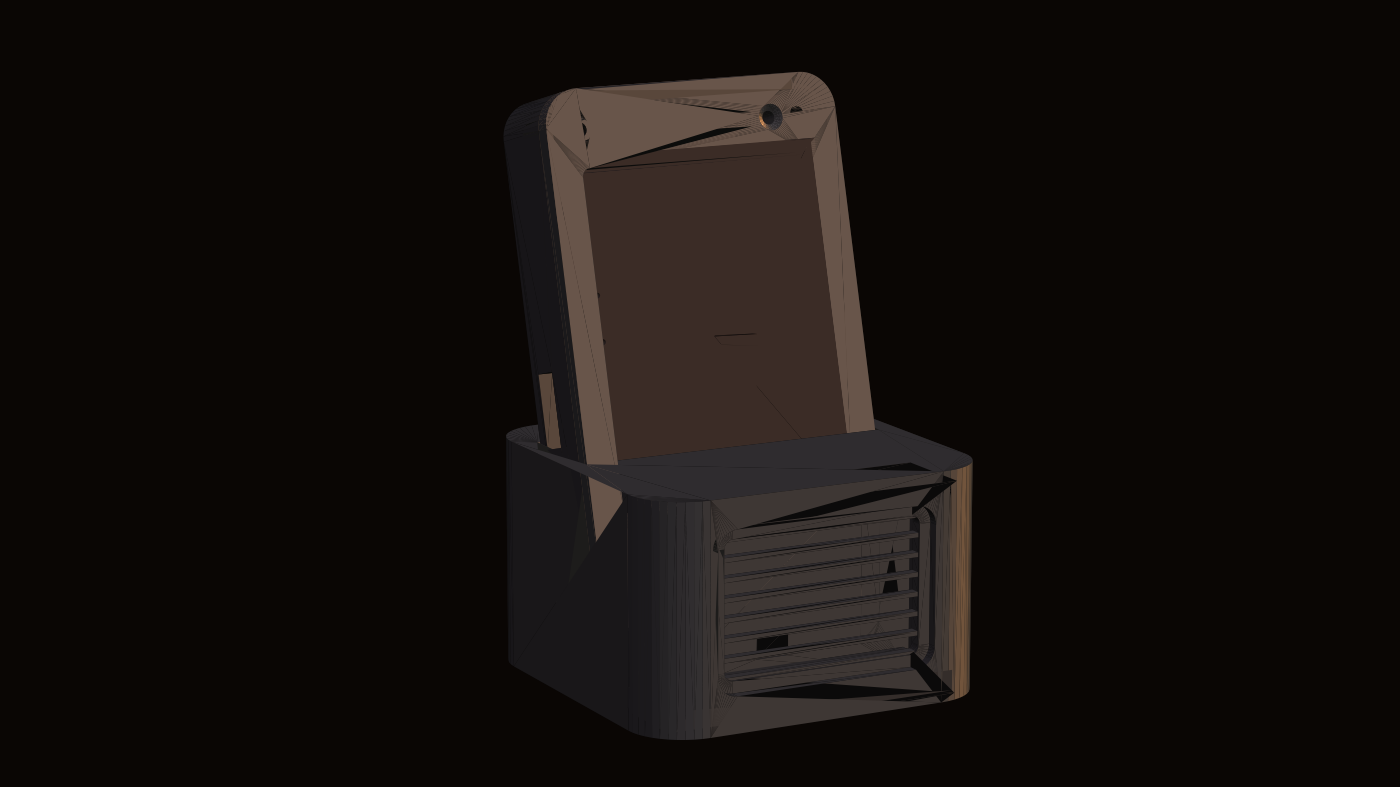
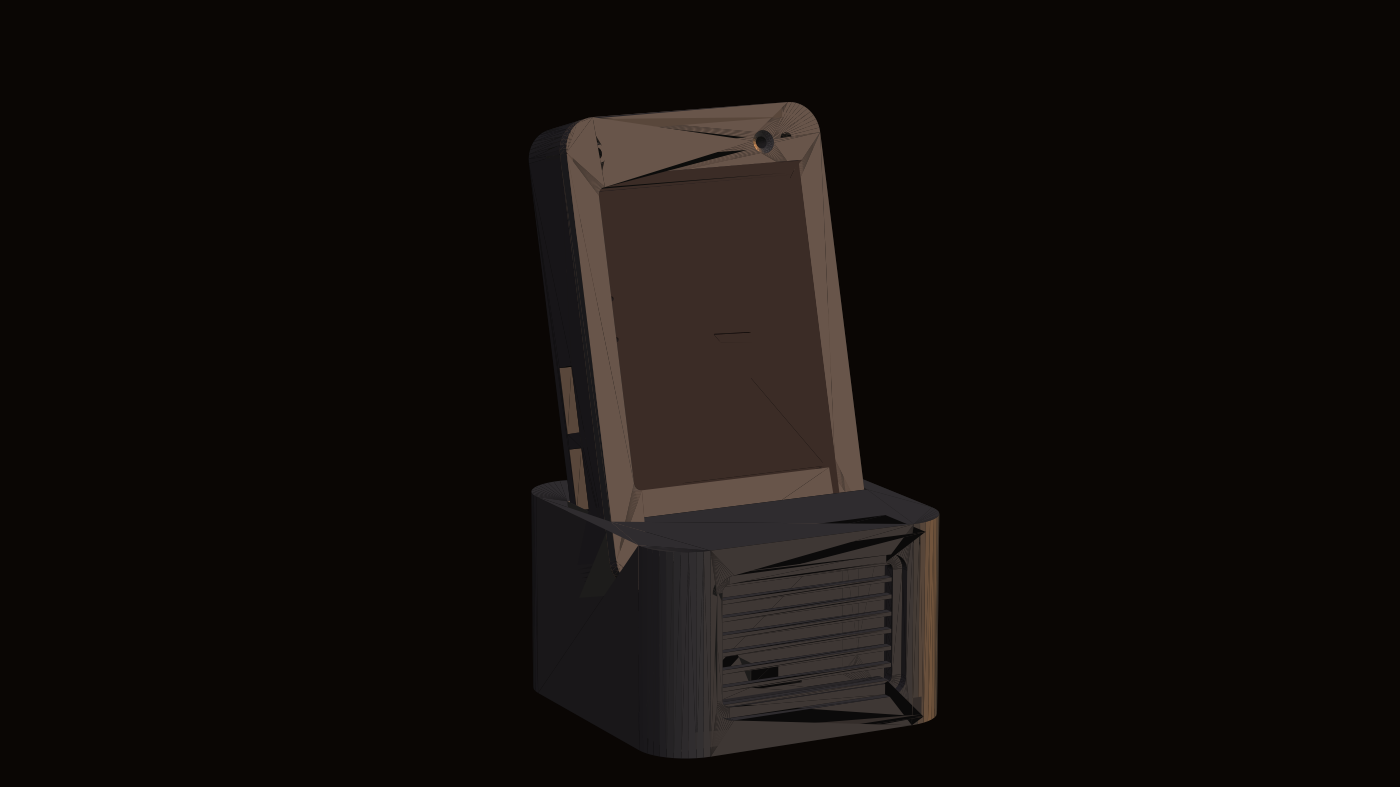
fix(enclosure): the stand was covering the bottom fifth of the screen
JP spotted it in a render. Two faults, one cause: the slab sat too deep.

THE SCREEN. The slot floor was z=10.0, putting the stand 30mm up the slab
— 31.1mm ALONG it once the 15 degree tilt is accounted for
(30 / cos 15). The visible area starts only 19.76mm up from the slab's
bottom edge (VA y0 = 16.81, slab bottom OY0 = -2.95), so the stand
covered 11.3mm of screen: 19.5% of a 58.05mm display, hidden behind the
box.

Worth naming the class: NOTHING INTERSECTED. The boolean clearance check
against the vendor STEP passed at 0.000mm3 through every revision,
correctly, because the stand was not colliding with the screen — it was
merely in front of it. A test that measures interference is structurally
blind to occlusion. This was found by rendering the thing and looking at
it, which is now four for four on defects that were invisible in the
source and obvious in the output.

THE USB-C PLUG. The same depth left 6.0mm between the slab's bottom edge
and the stand floor. A straight USB-C plug body needs ~18-20mm. There was
nowhere for the power lead to go, and nobody had noticed because no
figure showed a cable — the assembly was only ever drawn unpowered.

SLOT_FLOOR 10.0 -> 24.0:
  engagement    16.6mm along the slab (captive slot, constrains both faces)
  visible area  entirely clear of the stand
  below         20.0mm for the plug

Plus a 22 x 22mm USB-C WELL beneath the slot, full height from the stand
floor to the slot floor, opening into the rear cable route. Generous on
[…]

Changed region(s): [[0.3686, 0.0915, 0.7064, 0.9759]]

diff --git a/docs/index.html b/docs/index.html
@@ -1153,7 +1153,7 @@ footer p{margin:.4rem 0}
     <div class="linework"><svg xmlns="http://www.w3.org/2000/svg" viewBox="0 0 1200.0 541.0" width="1200" height="541" fill="none" stroke="currentColor" stroke-linecap="round" stroke-linejoin="round" role="img">
 <path id="case-print-g0-vis" d="M27 42L27 310 M24 48L24 316 M27 42L27 41L28 40L28 39L28 38L28 37L29 35L29 34L30 33 M30 33L32 31L34 29L37 27L39 25L43 24L46 24L49 24L52 24 M24 48L24 47L24 46L24 45L25 44L25 43L25 42L26 41L26 39 M52 336L47 335L43 333L39 331L35 327L32 324L30 320L28 315L27 310 M49 342L44 341L40 339L35 337L32 334L29 330L26 326L25 321L24 316 M52 24L217 51 M52 336L217 362 M217 51L221 52L226 54L230 56L234 59L237 63L239 67L241 72L241 76 M241 344L241 346L241 347L241 348L241 349L240 350L240 351L240 352L239 353 M239 353L237 356L235 358L232 360L229 361L226 362L223 363L220 363L217 362 M241 76L241 344 M63 54L61 56L57 57L53 57L50 56L47 53L45 50L44 47L45 43 M224 79L221 82L218 83L214 83L210 81L207 79L205 76L204 72L205 68 M49 284L49 95 M49 284L50 285L50 286L51 287L51 288L52 289L53 289L54 290L55 290 M55 90L54 90L53 91L52 91L51 91L50 92L50 93 M50 93L50 93L50 94L49 94L49 95 M214 315L55 290 M214 116L55 90 M214 315L214 315L215 315L216 315L217 315L218 314L219 313 M219 313L219 313L219 312L219 311 M219 122L219 121L219 120L218 119L218 118L217 117L216 116L215 116L214 116 M219 311L219 122 M63 318L61 321L57 322L53 322L50 320L47 318L45 315L44 311L45 307 M200 338L198 341L195 342L191 341L188 340L185 338L183 335L182 332L183 328 M224 344L221 346L218 348L214 347L210 346L207 344L205 341L204 337L205 333 M49 342L213 368 M236 359L234 362L231 364L229 366L226 367L223 368L220 369L216 369L213 368 M52 97L51 97L51 96L50 96L50 97L49 97 M210 122L52 97 M216 128L216 127L215 126L215 125L214 124L213 123L212 122L211 122L210 122 M216 315L216 128 M70 40L70 41L70 42L69 43L69 44 M69 44L66 47L63 48L59 48L55 46L52 44L50 41L49 37L50 33 M50 33L52 31L55 30L59 29L62 30L65 32L67 34L69 37L70 40 M230 66L230 66L230 67L230 68L230 69L230 70 M230 70L227 72L223 74L219 73L216 72L213 70L211 66L210 63L211 59 M211 59L213 56L216 55L220 55L223 56L226 57L228 60L230 63L230 66 M70 305L70 305L70 306L70 307L69 307L69 308L69 309 M69 309L66 311L63 313L59 312L55 311L52 309L50 305L49 302L50 298 M50 298L52 296L55 294L59 294L62 295L65 296L67 299L69 302L70 305 M206 326L206 326L206 327L206 328L206 329 M206 329L203 332L200 333L196 333L193 331L190 329L188 326L187 323L188 319 M188 319L190 317L193 316L196 316L199 316L202 318L204 320L206 323L206 326 M230 331L230 331L230 332L230 333L230 334 M230 334L227 337L223 338L219 338L216 337L213 334L211 331L210 327L211 324 M211 324L213 321L216 320L220 320L223 320L226 322L228 324L230 327L230 331 M64 39L64 40L64 41 M64 41L63 42L61 43L59 43L57 42L56 41L55 40L55 38L55 36 M55 36L56 35L58 34L59 34L61 35L62 36L63 37L64 38L64 39 M225 65L225 65L225 66L225 67 M225 67L223 68L222 69L220 68L218 68L217 67L216 65L215 64L216 62 M216 62L217 61L218 60L220 60L221 60L223 61L224 62L225 64L225 65 M64 304L64 304L64 305L64 306 M64 306L63 307L61 308L59 308L57 307L56 306L55 304L55 303L55 301 M55 301L56 300L58 299L59 299L61 299L62 300L63 301L64 303L64 304 M201 325L201 325L201 326L201 327 M201 327L200 328L198 328L197 328L195 328L194 327L193 325L192 323L193 322 M193 322L194 321L195 320L197 320L198 320L199 321L200 322L201 323L201 325 M225 330L225 330L225 331 M225 331L223 333L222 333L220 333L218 332L217 331L216 330L215 328L216 326 M216 326L217 325L218 325L220 325L221 325L223 326L224 327L225 328L225 330 M27 42L24 48 M27 310L24 316 M52 336L49 342 M217 362L213 368 M55 90L52 97 M214 116L210 122 M219 311L217 315 M219 122L216 128 M26 39L30 33 M236 359L239 353 M50 33L45 43 M69 44L63 54 M211 59L205 68 M230 70L224 79 M50 298L45 307 M69 309L63 318 M188 319L183 328 M206 329L200 338 M211 324L205 333 M230 334L224 344" stroke-width="1.4" vector-effect="non-scaling-stroke"/>
 <path id="case-print-g1-vis" d="M291 359L291 91 M308 330L308 62 M301 307L301 266 M301 307L294 318 M301 266L294 277 M294 318L294 277 M301 256L301 212 M301 212L294 223 M294 267L294 223 M301 256L294 267 M291 359L292 364L294 368L296 372L299 376L303 379L307 382L311 384L316 385 M308 330L309 335L310 339L313 343L316 347L319 350L324 353L328 355L333 356 M294 82L293 83L293 84L292 85L292 86L292 87L292 89L291 90L291 91 M316 385L481 411 M481 411L484 411L487 411L490 411L493 410L496 409L499 407L501 404L503 402 M378 378L378 378 M461 120L461 119L460 118L459 117L458 116L457 116L456 115L454 115L453 116 M333 44L330 44L326 44L323 44L320 45L317 46L314 48L312 50L310 53 M310 53L310 54L309 55L309 56L309 57L308 58L308 59L308 61L308 62 M333 356L497 382 M333 44L497 70 M497 382L500 382L504 382L507 382L510 381L513 379L516 378L518 375L520 373 M520 373L520 372L521 371L521 370L521 368L522 367L522 366L522 365L522 364 M522 96L521 91L520 87L517 82L514 79L511 76L506 73L502 71L497 70 M522 364L522 96 M318 63L318 331 M333 347L330 346L327 345L325 344L323 342L321 339L319 337L318 334L318 331 M497 373L333 347 M512 362L512 363L512 364L512 365L511 366L511 367L511 368 M511 368L510 369L508 370L507 372L505 372L503 373L501 373L499 373L497 373 M512 94L512 362 M497 79L500 80L503 81L505 82L507 84L509 86L511 89L512 91L512 94 M497 79L333 53 M318 63L318 63L318 62L318 61L319 60L319 59L319 58 M319 58L320 57L322 55L323 54L325 53L327 53L329 53L331 52L333 53 M294 277L301 278 M294 223L301 224 M498 373L498 373 M498 372L498 351 M337 79L478 102 M498 118L498 117L498 116L498 115L498 114L497 113L497 112 M498 144L498 118 M498 261L505 262 M498 144L505 145 M498 261L498 249 M498 208L498 188 M498 208L505 209 M381 343L381 354 M381 373L381 379 M381 343L334 335 M381 379L377 378 M334 339L334 335 M469 357L469 369 M469 357L422 349 M429 386L422 385 M422 385L422 379 M422 361L422 349 M459 341L344 323 M459 341L459 336 M344 323L344 318 M459 336L344 318 M459 332L344 314 M459 332L459 328 M344 314L344 309 M459 328L344 309 M459 323L344 305 M459 323L459 319 M344 305L344 301 M459 319L344 301 M459 314L344 296 M459 314L459 310 M344 296L344 292 M459 310L344 292 M459 306L344 287 M459 306L459 301 M344 287L344 283 M459 301L344 283 M459 297L344 278 M459 297L459 292 M344 278L344 274 M459 292L344 274 M318 100L320 100L321 101L323 101L325 101L326 100L328 99L329 98L330 97 M440 234L438 227L434 220L429 215L422 212L415 210L408 210L401 213L396 218 M396 218L394 227L396 235L400 242L407 247L415 250L423 251L432 248L438 242 M438 242L438 241L438 240L439 239L439 238L439 237L440 236L440 235L440 234 M459 188L344 170 M459 188L459 184 M344 170L344 165 M459 184L344 165 M459 179L344 161 M459 179L459 175 M344 161L344 157 M459 175L344 157 M459 171L344 152 M459 171L459 166 M344 152L344 148 M459 166L344 148 M459 162L344 143 M459 162L459 157 M344 143L344 139 M459 157L344 139 M459 153L344 135 M459 153L459 148 M344 135L344 130 M459 148L344 130 M459 144L344 126 M459 144L459 140 M459 140L344 121 M344 126L344 121 M465 116L464 114L463 113L462 111L460 111L458 110L457 110L455 111L454 112 M454 112L453 114L454 116L455 118L456 119L458 120L460 120L463 120L464 118 M464 118L464 118L464 117L465 117L465 116 M472 112L471 116L472 119L474 122L477 125L481 126L485 126L488 125L491 123 M374 372L446 383 M446 383L436 401 M364 389L436 401 M374 372L364 389 M378 348L379 348 M379 348L379 346 M379 346L381 343 M378 348L379 348 M378 354L378 346 M336 342L336 339 M335 340L336 339 M467 362L467 362 M467 362L467 360 M467 360L469 357 M467 362L467 362 M467 368L467 360 M422 355L423 355 M422 355L423 355 M430 384L425 384 M425 384L424 385 M425 384L425 380 M425 361L425 353 M423 356L425 353 M423 355L423 356 M456 340L459 336 M456 332L459 328 M456 323L459 319 M456 314L459 310 M456 305L459 301 M456 296L459 292 M456 188L459 184 M456 179L459 175 M456 170L459 166 M456 161L459 157 M456 153L459 148 M456 144L459 140 M432 381L429 387 M377 379L429 387 M505 339L498 351 M505 339L505 250 M505 250L498 261 M505 238L498 249 M505 238L505 197 M505 197L498 208 M505 177L498 188 M505 177L505 132 M505 132L498 144 M338 347L337 344L336 341L334 339L331 337L328 336L325 336L322 336L320 338 M338 348L338 348L338 347 M334 339L336 339 M378 346L379 346 M422 353L424 353 M467 360L467 360 M498 372L498 369L496 366L494 364L491 362L487 361L484 362L481 363L479 365 M479 365L478 366L478 367L478 368L478 369L478 370 M498 373L498 373L498 372 M338 82L337 79L335 76L333 74L330 72L327 71L323 71L320 73L318 75 M318 75L318 75 M318 83L320 85L322 87L324 89L327 90L330 90L332 89L335 88L337 86 M337 86L337 85L337 84L338 84L338 83L338 82 M438 237L436 230L433 224L428 219L422 215L415 213L407 213L400 215L395 220 M437 244L437 243L437 242L437 241L438 240L438 239L438 238L438 237 M498 108L498 104L496 102L494 99L491 98L487 97L484 97L481 98L479 101 M479 101L478 104L479 108L481 111L484 114L487 115L491 115L495 114L497 111 M497 111L498 111L498 110L498 109L498 108 M436 395L444 383 M436 401L436 395 M367 384L436 395 M334 346L333 344L332 343L331 341L329 340L328 340L326 339L324 340L322 341 M334 347L334 347L334 346 M378 346L336 339 M467 360L425 353 M494 372L494 370L493 368L491 367L490 366L488 365L486 365L484 366L482 367 M482 367L482 368L482 369L482 370L482 371 M494 373L494 372 M334 81L333 79L332 78L331 76L329 75L327 75L325 75L323 76L322 77 M322 77L321 79L322 82L323 84L325 85L327 86L329 86L331 85L333 84 M333 84L333 83L334 83L334 82L334 81 M494 107L494 105L493 103L491 102L490 101L488 100L486 101L484 101L482 103 M482 103L482 105L482 107L484 109L485 111L488 112L490 112L492 111L494 109 M494 109L494 109L494 108L494 107 M429 390L429 387 M429 390L434 381 M429 390L375 382 M375 382L380 373 M291 359L308 330 M291 91L308 62 M316 385L333 356 M481 411L497 382 M507 371L512 362 M498 118L512 94 M487 97L497 79 M322 72L333 53 M310 53L294 82 M520 373L503 402 M476 370L479 365 M330 97L337 86 M318 75L318 75 M491 123L497 111 M472 112L479 101" stroke-width="1.4" vector-effect="non-scaling-stroke"/>
-<path id="case-print-g2-vis" d="M559 389L559 240 M605 309L605 159 M559 389L560 397L562 404L566 410L571 416L577 421L583 425L590 428L597 430 M605 309L606 316L608 323L612 330L617 335L623 340L629 344L636 347L643 349 M562 227L562 228L561 230L560 231L560 233L559 235L559 237L559 238L559 240 M643 131L638 131L633 131L628 132L624 133L619 135L615 138L611 142L609 146 M609 146L608 147L607 149L606 151L606 152L606 154L605 156L605 158L605 159 M597 430L766 456 M766 456L771 457L775 457L780 456L785 455L790 453L794 450L797 446L800 442 M643 349L812 375 M643 131L812 158 M812 375L817 376L822 376L827 375L831 374L836 372L840 369L844 365L846 361 M846 361L847 360L848 358L849 356L849 355L849 353L850 351L850 349L850 348 M850 198L849 191L847 184L843 177L838 172L832 167L826 163L819 160L812 158 M850 348L850 198 M836 269L619 234 M836 269L836 205 M836 205L619 170 M619 234L619 170 M614 410L638 368 M656 363L654 362L651 362L649 362L646 363L644 364L642 365L640 366L638 368 M786 383L656 363 M796 393L796 393L796 392L796 391L797 391 M797 391L796 389L795 388L794 386L793 385L791 385L790 384L788 384L786 383 M772 435L796 393 M754 440L756 441L759 441L761 440L764 440L766 439L768 438L770 437L772 435 M754 440L624 420 M614 410L614 410L614 411L614 412L613 412 M613 412L614 414L615 415L616 417L617 418L619 418L620 419L622 419L624 420 M812 265L836 205 M795 388L772 429 M754 434L756 435L759 435L761 434L764 434L766 433L768 432L770 431L772 429 M624 414L754 434 M615 409L615 410L617 411L618 412L619 412L620 413L621 413L622 413L624 414 M622 405L646 363 M766 423L625 401 M764 428L788 385 M766 422L766 423 M766 422L766 416 M770 415L769 416 M770 415L770 409 M774 408L773 410 M774 408L774 402 M778 401L777 403 M778 401L778 395 M782 394L781 396 M782 394L782 388 M786 387L785 389 M786 387L786 383 M756 430L757 430L758 430L759 430L760 430L761 430L762 429L763 429L764 428 M756 429L757 429L758 429L759 429L760 429L760 428L761 428 M761 423L761 428 M761 428L622 406 M622 405L622 406 M622 405L622 405L622 406 M622 406L622 407L622 408L623 408L624 409L625 409L626 409 M622 406L623 407L624 407L625 408L626 408 M769 416L629 394 M766 422L626 399 M773 410L633 387 M770 415L630 392 M777 403L636 380 M774 408L633 385 M781 396L640 373 M778 401L637 379 M785 389L644 366 M782 394L641 372 M788 385L788 385L788 384 M788 384L788 384 M786 387L645 365 M756 430L626 409 M626 408L756 429 M559 389L605 309 M559 240L605 159 M597 430L643 349 M766 456L812 375 M796 393L796 388 M772 435L772 429 M754 440L754 434 M624 420L624 414 M764 428L764 423 M788 385L788 384 M756 430L756 429 M626 409L626 408 M609 146L562 227 M846 361L800 442" stroke-width="1.4" vector-effect="non-scaling-stroke"/>
+<path id="case-print-g2-vis" d="M559 389L559 240 M605 309L605 159 M559 389L560 397L562 404L566 410L571 416L577 421L583 425L590 428L597 430 M605 309L606 316L608 323L612 330L617 335L623 340L629 344L636 347L643 349 M562 227L562 228L561 230L560 231L560 233L559 235L559 237L559 238L559 240 M643 131L638 131L633 131L628 132L624 133L619 135L615 138L611 142L609 146 M609 146L608 147L607 149L606 151L606 152L606 154L605 156L605 158L605 159 M597 430L766 456 M766 456L771 457L775 457L780 456L785 455L790 453L794 450L797 446L800 442 M643 349L812 375 M643 131L812 158 M812 375L817 376L822 376L827 375L831 374L836 372L840 369L844 365L846 361 M846 361L847 360L848 358L849 356L849 355L849 353L850 351L850 349L850 348 M850 198L849 191L847 184L843 177L838 172L832 167L826 163L819 160L812 158 M850 348L850 198 M836 281L619 247 M836 281L836 217 M836 217L619 183 M619 247L619 183 M614 410L638 368 M656 363L654 362L651 362L649 362L646 363L644 364L642 365L640 366L638 368 M786 383L656 363 M796 393L796 393L796 392L796 391L797 391 M797 391L796 389L795 388L794 386L793 385L791 385L790 384L788 384L786 383 M772 435L796 393 M754 440L756 441L759 441L761 440L764 440L766 439L768 438L770 437L772 435 M754 440L624 420 M614 410L614 410L614 411L614 412L613 412 M613 412L614 414L615 415L616 417L617 418L619 418L620 419L622 419L624 420 M815 271L836 217 M816 278L815 271 M619 240L664 247 M667 240L664 247 M667 240L751 254 M751 254L748 261 M748 261L815 271 M795 388L772 429 M754 434L756 435L759 435L761 434L764 434L766 433L768 432L770 431L772 429 M624 414L754 434 M615 409L615 410L617 411L618 412L619 412L620 413L621 413L622 413L624 414 M622 405L646 363 M766 423L625 401 M764 428L788 385 M766 422L766 423 M766 422L766 416 M770 415L769 416 M770 415L770 409 M774 408L773 410 M774 408L774 402 M778 401L777 403 M778 401L778 395 M782 394L781 396 M782 394L782 388 M786 387L785 389 M786 387L786 383 M756 430L757 430L758 430L759 430L760 430L761 430L762 429L763 429L764 428 M756 429L757 429L758 429L759 429L760 429L760 428L761 428 M761 423L761 428 M761 428L622 406 M622 405L622 406 M622 405L622 405L622 406 M622 406L622 407L622 408L623 408L624 409L625 409L626 409 M622 406L623 407L624 407L625 408L626 408 M769 416L629 394 M766 422L626 399 M773 410L633 387 M770 415L630 392 M777 403L636 380 M774 408L633 385 M781 396L640 373 M778 401L637 379 M785 389L644 366 M782 394L641 372 M788 385L788 385L788 384 M788 384L788 384 M786 387L645 365 M665 254L664 247 M749 268L748 261 M739 266L747 253 M756 430L626 409 M626 408L756 429 M559 389L605 309 M559 240L605 159 M597 430L643 349 M766 456L812 375 M796 393L796 388 M772 435L772 429 M754 440L754 434 M624 420L624 414 M764 428L764 423 M788 385L788 384 M756 430L756 429 M626 409L626 408 M609 146L562 227 M846 361L800 442" stroke-width="1.4" vector-effect="non-scaling-stroke"/>
 <path id="case-print-g3-vis" d="M857 471L862 464 M862 464L862 408 M857 415L862 408 M857 471L857 415 M1062 503L1066 496 M1066 496L1066 441 M857 471L1062 503 M862 464L1066 496 M862 408L1066 441" stroke-width="1.4" vector-effect="non-scaling-stroke"/>
 <path id="case-print-g4-vis" d="M1176 493L1174 484L1169 475L1162 469L1154 464L1144 462L1135 462L1126 466L1119 473 M1119 473L1116 484L1119 494L1125 504L1134 510L1144 515L1155 515L1165 512L1173 504 M1173 504L1174 503L1174 501L1175 500L1175 499L1176 497L1176 496L1176 495L1176 493 M1118 475L1115 486L1118 496L1124 505L1133 512L1143 516L1154 517L1164 514L1172 506 M1172 506L1173 504 M1118 475L1119 473" stroke-width="1.4" vector-effect="non-scaling-stroke"/>
 </svg></div>
@@ -1226,6 +1226,27 @@ footer p{margin:.4rem 0}
     <b>Seal it after wiring</b>, though for a subtler reason than it first appears: not to hold
     bass inside a rear chamber, but to stop the <em>front</em> cavity venting anywhere except
     through the slots. A leak there lets the front wave escape and cancel, which costs level.
+  </p>
+
+  <p>
+    One fault that no clearance check could ever have found: <b>the stand was covering the
+    bottom fifth of the screen.</b> The slot floor sat at <code>z&nbsp;=&nbsp;10</code>, which
+    put the stand 30&nbsp;mm up the slab — <b>31.1&nbsp;mm <em>along</em> it</b> once the 15°
+    tilt is accounted for. The visible area starts only 19.76&nbsp;mm up from the slab's bottom
+    edge, so <b>11.3&nbsp;mm of a 58&nbsp;mm display</b> was hidden behind the box. Nothing
+    intersected; the stand was simply <em>in front of</em> the screen, which is exactly the
+    class of defect a boolean test is blind to. It was caught by looking at a render.
+  </p>
+
+  <p>
+    The same depth left 6&nbsp;mm between the slab's bottom edge and the stand floor, where a
+    straight USB-C plug needs ~18–20&nbsp;mm — so there was nowhere for the power lead to go
+    either. Raising the slot floor to <code>z&nbsp;=&nbsp;24</code> fixes both: the screen is
+    entirely clear, 20&nbsp;mm remains below for the plug, and 16.6&nbsp;mm of captive slot
+    still holds the slab. There is now a 22&nbsp;× 22&nbsp;mm <b>USB-C well</b> beneath the
+    slot opening into the cable route — generous on purpose, because a cable forced into a
+    tight well takes its bend at the plug rather than in the lead.
+    <b>The source asserts all three on every run</b>, so the screen cannot get buried again.
   </p>
 
   <p>

diff --git a/docs/print-sheet.html b/docs/print-sheet.html
@@ -155,6 +155,31 @@ cd scratch/hosyond-s3/ember-case &amp;&amp; ../cadenv/bin/python ember_case.py
 <p>Stand base: press fit. Seal the seam with a bead of silicone or a strip of tape — it needs</p>
 <p>to be <b>airtight, not structural</b>.</p>
 <hr>
+<h2>The slab in the stand</h2>
+<p>The slab drops into a tilted slot, <b>15° back from vertical</b> for a seated viewer.</p>
+<p>⚠ <b>Revised — it used to bury the screen.</b> The slot floor was at <code>z = 10.0</code>, which put</p>
+<p>the stand <b>30 mm</b> up the slab — <b>31.1 mm along it</b> once tilt is accounted for</p>
+<p>(30 / cos 15°). The visible area starts only 19.76 mm up from the slab's bottom edge, so</p>
+<p>the stand covered <b>11.3 mm of screen: 19.5% of a 58.05 mm display</b>, hidden behind the</p>
+<p>box. Caught by looking at a render; a boolean clearance check can never find this, because</p>
+<p>nothing intersects — the stand was simply <em>in front of</em> the screen.</p>
+<p>The same depth left just 6.0 mm between the slab's bottom edge and the stand floor, and a</p>
+<p>straight USB-C plug body needs <b>~18–20 mm</b>. There was nowhere for the power lead to go.</p>
+<p><b>Slot floor is now <code>z = 24.0</code>:</b></p>
+<div class="tablewrap"><table><thead><tr>
+<th></th>
+<th></th>
+</tr></thead><tbody>
+<tr><td>Engagement</td><td><b>16.6 mm</b> along the slab — a captive slot constraining both faces</td></tr>
+<tr><td>Visible area</td><td><b>entirely clear</b> of the stand</td></tr>
+<tr><td>Room below for USB-C</td><td><b>20.0 mm</b></td></tr>
+</tbody></table></div>
+<p>There is a <b>USB-C well</b> under the slot — 22 × 22 mm, full height from the stand floor to</p>
+<p>the slot floor, opening into the rear cable route. Deliberately generous: a moulded plug's</p>
+<p>strain relief is wider than the connector, and a cable forced into a tight well takes the</p>
+<p>bend at the plug rather than in the lead, which is how USB-C cables die.</p>
+<p><code>ember_case.py</code> asserts all three of these on every run (<code>_check_geometry</code>), so the screen</p>
+<p>cannot get buried again by a later tweak.</p>
 <h2>Speaker</h2>
 <p>It is a <b>sealed-back module</b>, not a bare driver: a plastic box carrying its own rear</p>
 <p>cavity, diaphragm on one face, JST-1.25 2-pin pigtail, <b>double-sided tape on the back</b>.</p>

diff --git a/site/index.src.html b/site/index.src.html
@@ -1045,6 +1045,27 @@ footer p{margin:.4rem 0}
   </p>
 
   <p>
+    One fault that no clearance check could ever have found: <b>the stand was covering the
+    bottom fifth of the screen.</b> The slot floor sat at <code>z&nbsp;=&nbsp;10</code>, which
+    put the stand 30&nbsp;mm up the slab — <b>31.1&nbsp;mm <em>along</em> it</b> once the 15°
+    tilt is accounted for. The visible area starts only 19.76&nbsp;mm up from the slab's bottom
+    edge, so <b>11.3&nbsp;mm of a 58&nbsp;mm display</b> was hidden behind the box. Nothing
+    intersected; the stand was simply <em>in front of</em> the screen, which is exactly the
+    class of defect a boolean test is blind to. It was caught by looking at a render.
+  </p>
+
+  <p>
+    The same depth left 6&nbsp;mm between the slab's bottom edge and the stand floor, where a
+    straight USB-C plug needs ~18–20&nbsp;mm — so there was nowhere for the power lead to go
+    either. Raising the slot floor to <code>z&nbsp;=&nbsp;24</code> fixes both: the screen is
+    entirely clear, 20&nbsp;mm remains below for the plug, and 16.6&nbsp;mm of captive slot
+    still holds the slab. There is now a 22&nbsp;× 22&nbsp;mm <b>USB-C well</b> beneath the
+    slot opening into the cable route — generous on purpose, because a cable forced into a
+    tight well takes its bend at the plug rather than in the lead.
+    <b>The source asserts all three on every run</b>, so the screen cannot get buried again.
+  </p>
+
+  <p>
     Fasteners: <b>4 × M3×14 countersunk self-tappers, driven from the back</b>, so there are no
     screw heads on the face you look at. Heat-set inserts are ruled out by measurement rather
     than preference — the vendor's ⌀5.60&nbsp;mm pad caps the boss at ⌀5.40, and an M3 insert's

diff --git a/enclosure/ember_case.py b/enclosure/ember_case.py
@@ -218,7 +218,21 @@ PAD_PROUD  = 0.80                  # pad stands off the wall so nothing else fou
 LIP_DEPTH  = 0.60                  # alignment only; the tape does the work
 LIP_WIDTH  = 1.20                  # the groove is a thin outline, not a pocket
 SLOT_CY  = 34.0                    # slot centreline Y at the floor
-SLOT_FLOOR = 10.0
+# SLOT_FLOOR 10.0 -> 24.0. Two faults, one cause: the slab sat too deep.
+#
+#   At 10.0 the stand rose 30mm above the slab's bottom edge, which is 31.1mm ALONG the
+#   slab once tilt is accounted for (30 / cos 15deg). The visible area starts only
+#   19.76mm up from that edge, so the stand covered 11.3mm of screen — 19.5% of a
+#   58.05mm-tall display, hidden behind the box. JP spotted it in the render.
+#
+#   The same depth left only 6.0mm between the slab's bottom edge and the stand floor,
+#   and a straight USB-C plug body needs ~18-20mm. There was nowhere for the power lead
+#   to go, which nobody had noticed because no figure showed a cable.
+#
+# At 24.0: engagement 16.6mm along the slab (a captive slot constraining both faces, so
+# ample), the visible area is entirely clear of the stand, and 20.0mm remains below for
+# the plug. See the VA_CLEAR assert below — this must not silently regress.
+SLOT_FLOOR = 24.0
 # --- grille: replace this block with lyra's motif; it is a pure parameter set
 GRILLE_SLOT_W = 2.20
 GRILLE_PITCH  = 3.40
@@ -317,6 +331,13 @@ def desk_stand():
                 z-GRILLE_SLOT_W2/2-GRILLE_FLARE, z+GRILLE_SLOT_W2/2+GRILLE_FLARE)
         bars = (b+fl) if bars is None else bars+(b+fl)
     p -= (field & bars)
+    # USB-C WELL. The plug enters the board's bottom short edge and points down-and-
+    # forward along the slab's own axis, so it needs a cavity UNDER the slot rather than
+    # behind it. Spans the full height between the stand floor and the new slot floor.
+    # Generous on purpose: a moulded plug's strain relief is wider than the connector,
+    # and a cable forced into a tight well takes the bend at the plug rather than in the
+    # lead, which is how USB-C cables die.
+    p -= bx(ST_W/2-11, ST_W/2+11, 24.0, 46.0, ST_WALL, SLOT_FLOOR)
     # cable route: slot floor -> out the back
     p -= bx(ST_W/2-8, ST_W/2+8, 29.0, ST_D+1, ST_WALL, 13.0)
     # SPEAKER WIRE PASS-THROUGH. Caught by JP: the chamber had no exit at all. Its only
@@ -395,3 +416,29 @@ if __name__ == "__main__":
     sv, _ = interference(Pos(0,0,-2.0) * parts["ember-front-bezel"])
     print(f"  [self-test] bezel sunk 2mm -> {sv:9.3f} mm^3 "
           f"({'detector WORKS' if sv > 1.0 else '!!! DETECTOR BLIND !!!'})")
+
+
+# ─────────────────────────────────────────────────────────────────────────────
+# GEOMETRY ASSERTS. These are cheap and they encode the two faults JP found by
+# looking at a render — the kind a boolean clearance check cannot catch, because
+# nothing intersects: the stand was simply in front of the screen.
+# ─────────────────────────────────────────────────────────────────────────────
+def _check_geometry():
+    import math
+    # 1. the stand must not occlude any of the visible area
+    engagement = (ST_H - SLOT_FLOOR) / math.cos(math.radians(TILT))
+    va_start = VA[2] - OY0
+    assert engagement <= va_start, (
+        f"stand occludes {engagement - va_start:.1f}mm of the visible area "
+        f"(engagement {engagement:.1f}mm along the slab, VA starts at {va_start:.1f}mm)")
+    # 2. room under the slab for a USB-C plug
+    below = SLOT_FLOOR - ST_WALL
+    assert below >= 16.0, f"only {below:.1f}mm under the slab for a USB-C plug (need >=16)"
+    # 3. the slot must still hold it
+    assert engagement >= 12.0, f"slot engagement {engagement:.1f}mm is too shallow to retain the slab"
+    return engagement, va_start, below
+
+
+if __name__ == "__main__":
+    _e, _v, _b = _check_geometry()
+    print(f"  [geometry] engagement {_e:.1f}mm | VA starts {_v:.1f}mm | {_b:.1f}mm under for USB-C  OK")

diff --git a/enclosure/PRINT-SHEET.md b/enclosure/PRINT-SHEET.md
@@ -71,6 +71,36 @@ to be **airtight, not structural**.
 
 ---
 
+## The slab in the stand
+
+The slab drops into a tilted slot, **15° back from vertical** for a seated viewer.
+
+⚠ **Revised — it used to bury the screen.** The slot floor was at `z = 10.0`, which put
+the stand **30 mm** up the slab — **31.1 mm along it** once tilt is accounted for
+(30 / cos 15°). The visible area starts only 19.76 mm up from the slab's bottom edge, so
+the stand covered **11.3 mm of screen: 19.5% of a 58.05 mm display**, hidden behind the
+box. Caught by looking at a render; a boolean clearance check can never find this, because
+nothing intersects — the stand was simply *in front of* the screen.
+
+The same depth left just 6.0 mm between the slab's bottom edge and the stand floor, and a
+straight USB-C plug body needs **~18–20 mm**. There was nowhere for the power lead to go.
+
+**Slot floor is now `z = 24.0`:**
+
+| | |
+|---|---|
+| Engagement | **16.6 mm** along the slab — a captive slot constraining both faces |
+| Visible area | **entirely clear** of the stand |
+| Room below for USB-C | **20.0 mm** |
+
+There is a **USB-C well** under the slot — 22 × 22 mm, full height from the stand floor to
+the slot floor, opening into the rear cable route. Deliberately generous: a moulded plug's
+strain relief is wider than the connector, and a cable forced into a tight well takes the
+bend at the plug rather than in the lead, which is how USB-C cables die.
+
+`ember_case.py` asserts all three of these on every run (`_check_geometry`), so the screen
+cannot get buried again by a later tweak.
+
 ## Speaker
 
 It is a **sealed-back module**, not a bare driver: a plastic box carrying its own rear
